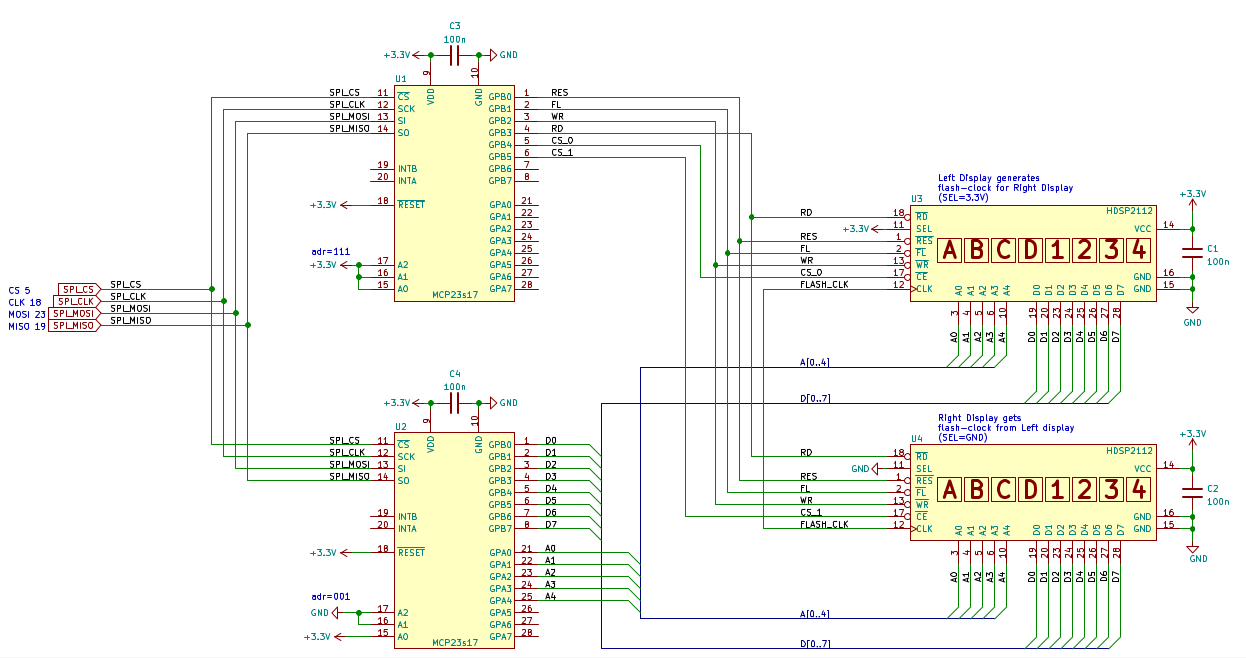
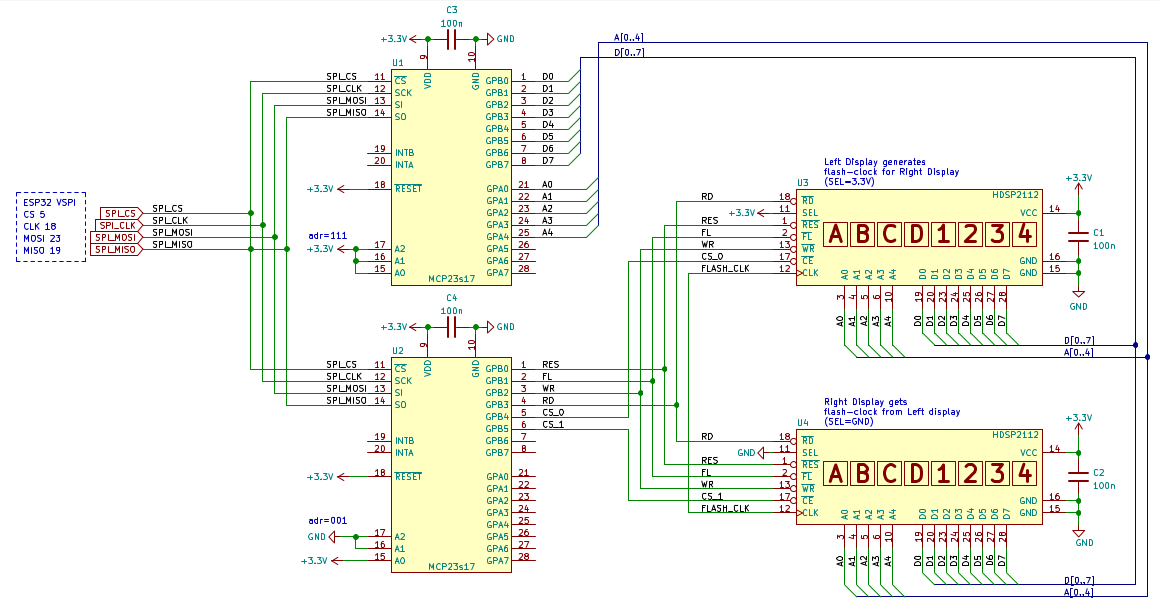
schematic and readme updated

Changed region(s): [[0.0, 0.0309, 0.9931, 0.9902], [0.931, 0.2785, 0.9931, 0.3094], [0.5276, 0.0619, 0.5586, 0.0928]]

diff --git a/src/hdsp2112.h b/src/hdsp2112.h
@@ -15,7 +15,7 @@ constexpr int8_t SPI_miso = 19;        ///< SPI master-in-slave-out
 constexpr uint8_t U1_addr = 0b111;     ///< a2=1 a1=1 a0=1 0b111 --> 0x27
 constexpr uint8_t U2_addr = 0b001;     ///< a2=0 a1=0 a0=1 0b001 --> 0x21
 
-// m_U1.port-B works a control port for the two hdsp2112 displays
+// m_U2.port-B works a control port for the two hdsp2112 displays
 constexpr uint8_t cRES = 0b00000001;   ///< GPB0(1) = reset
 constexpr uint8_t cFL  = 0b00000010;   ///< GPB1(2) = flash-bit
 constexpr uint8_t cWR  = 0b00000100;   ///< GPB2(3) = write enable
@@ -23,13 +23,13 @@ constexpr uint8_t cRD  = 0b00001000;   ///< GPB3(4) = read enable
 constexpr uint8_t cCS0 = 0b00010000;   ///< GPB4(5) = chip select 0
 constexpr uint8_t cCS1 = 0b00100000;   ///< GPB5(6) = chip select 1
 
-// dhsp2112 control-word-register
+// hdsp2112 control-word-register
 constexpr uint8_t cwrClear    = 0b10000000;   ///< 0=normal 1=clear flash and char
 constexpr uint8_t cwrSelftest = 0b01000000;   ///< 0=normal 1=self test
 constexpr uint8_t cwrBlink    = 0b00010000;   ///< 0=off 1=blinking
 constexpr uint8_t cwrFlash    = 0b00001000;   ///< 0=off 1=flashing
 
-// hdsp2112 address-range for internal RAMs: Flash,User-defined,Control and Character-RAM
+// hdsp2112 address for Flash,User-defined,Control and Character-RAM
 constexpr uint8_t adrFLR=0b00011000;   ///< hdsp2112 Flash-RAM address
 constexpr uint8_t adrUDA=0b00100000;   ///< hdsp2112 User-Defined-Address address
 constexpr uint8_t adrUDR=0b00101000;   ///< hdsp2112 User-Defined-RAM address
@@ -42,8 +42,8 @@ enum class mod_e { low=0, high=1 };    ///< logic level of signals
 
 class HDSP2112 : public Print {
   private:
-    Adafruit_MCP23X17 m_U1;   ///< mcs23s17 (U1_addr) GBB[0..4]=[res,fl,wr,rd,cs0,cs1]
-    Adafruit_MCP23X17 m_U2;   ///< mcs23s17 (U2_addr) GPA[0..7]=data[0..7] GBB[0..4]=address[0..4]
+    Adafruit_MCP23X17 m_U1;   ///< mcs23s17 (U1_addr) GPA[0..7]=data[0..7] GBB[0..4]=address[0..4]
+    Adafruit_MCP23X17 m_U2;   ///< mcs23s17 (U2_addr) GBB[0..4]=[res,fl,wr,rd,cs0,cs1]
     int8_t m_spi_cs;          ///< SPI chip-select
     int8_t m_spi_clk;         ///< SPI clock
     int8_t m_spi_mosi;        ///< SPI master-out-clock-in
@@ -148,21 +148,21 @@ class HDSP2112 : public Print {
       } else {
         m_ctrl |= (0==id)? cCS0 : cCS1;
       }
-      m_U1.writeGPIOB(m_ctrl);
+      m_U2.writeGPIOB(m_ctrl);
     }
 
     // sets fl input of given hdsp2112 display to [low,high]
     // @param mod [low,high]
     inline void setFL(mod_e mod) {
       m_ctrl = (mod==mod_e::low) ? (m_ctrl & ~cFL) : (m_ctrl | cFL);
-      m_U1.writeGPIOB(m_ctrl);
+      m_U2.writeGPIOB(m_ctrl);
     }
 
     // control write_enable input of all hdsp2112 displays
     // @param mod [low,high]
     inline void setWR(mod_e mod) {
       m_ctrl = (mod==mod_e::low) ? (m_ctrl & ~cWR) : (m_ctrl | cWR);
-      m_U1.writeGPIOB(m_ctrl);
+      m_U2.writeGPIOB(m_ctrl);
     }
 
     // write data to given hdsp2112 display

diff --git a/src/hdsp2112.cpp b/src/hdsp2112.cpp
@@ -22,10 +22,10 @@ HDSP2112::HDSP2112(int8_t spi_cs, int8_t spi_clk, int8_t spi_mosi, int8_t spi_mi
 
 void HDSP2112::Reset(void) {
   m_ctrl = m_ctrl & ~cRES & ~cCS0 & ~cCS1; 
-  m_U1.writeGPIOB(m_ctrl);    // reset + both cs activated
+  m_U2.writeGPIOB(m_ctrl);    // reset + both cs activated
   delayMicroseconds(10);      // wait pulse width (req. =300ns) 
   m_ctrl |= cRES|cCS0|cCS1;   
-  m_U1.writeGPIOB(m_ctrl);    // reset + both cs deactivated
+  m_U2.writeGPIOB(m_ctrl);    // reset + both cs deactivated
   delay(1);                   // wait 1ms until device is ready after reset (req. =110µs) 
   SetPos(0);                  // set cursor to leftmost position
 }
@@ -45,8 +45,8 @@ void HDSP2112::Begin(void) {
 }
 
 void HDSP2112::WrData(uint8_t id, uint8_t addr, uint8_t data) {
-  m_U2.writeGPIOA(addr);   // set address 
-  m_U2.writeGPIOB(data);   // set data
+  m_U1.writeGPIOA(addr);   // set address 
+  m_U1.writeGPIOB(data);   // set data
   setCS(id,mod_e::low);    // cs=low
   setWR(mod_e::low);       // wr=low 
   delayMicroseconds(1);    // wr active-time req. = 100ns
@@ -63,8 +63,8 @@ void HDSP2112::SetFlashBits(uint16_t fb) {
     uint16_t msk = 0x8000>>ic;   // bit pos mask
     uint8_t data = (uint8_t) ((msk==(msk & fb))? 1u : 0u); 
     setFL(mod_e::low);           // FL=low
-    m_U2.writeGPIOA(addr);       // set address 
-    m_U2.writeGPIOB(data);       // set data
+    m_U1.writeGPIOA(addr);       // set address 
+    m_U1.writeGPIOB(data);       // set data
     setCS(id,mod_e::low);        // cs=low
     setWR(mod_e::low);           // wr=low 
     delayMicroseconds(1);        // wr active-time req. = 100ns

diff --git a/README.md b/README.md
@@ -19,20 +19,23 @@ framework = arduino
 ### 1.1. wiring of the two MCP23s17 
 ---
 It is possible to connect multiple MCP23s17s to a SPI bus in parallel with a single CS signal only. Steps to do:   
-1. The address pins A0..A2 of the MCP23s17 must be wired so that each module has a unique address. 
-```
-pre-assigned Address-Pins in this setup: 
-U1 address = 111 --> spi-control-byte = 0100111x  
-U2 address = 001 --> spi-control-byte = 0100001x  
-```
+#### 1.1.1 define address pins
+The address pins A0..A2 of the MCP23s17 must be wired so that each module has a unique address, e.g. the pre-assigned address-pins in this setup are:
 
-2. Additionally, when initializing the two MCP23s17, the `HAEN` bit (=hardware address enable) must be set within the `IOCON` register (=I/O expander configuration), i.e. call member function `enableAddrPins()`
+| device | A0 | A1 | A2 | SPI-control | Comment                    |
+|:------:|:--:|:--:|:--:|:-----------:|:---------------------------|
+| U1     |  1 |  1 |  1 | 01000111x   | GPA=d[0..7], GPB=a[0..4]   |
+| U2     |  0 |  0 |  1 | 01000001x   | GPB=[res,fl,wr,rd,cs0,cs1] |
+
+
+#### 1.1.2. activate hardware-address-enable 
+Additionally, when initializing the two MCP23s17, the `HAEN` bit (=hardware address enable) must be set within the `IOCON` register (=I/O expander configuration), i.e. call member function `enableAddrPins()`
 ```c
   m_U1.enableAddrPins();  // enable HAEN function
   m_U2.enableAddrPins();  // enable HAEN function
 ```
-
-3. The devices are selected via the **SPI control byte**  according to the pre-assigned address pins A0..A2 
+#### 1.1.3. select devices via SPI-control-byte
+The devices are selected via the **SPI control byte**  according to the pre-assigned address pins A0..A2 
 (see [mcp23s17.pdf](doc/mcp23s17.pdf) , Figure 3-5: **SPI-Control-Byte Format**, page 15) This is done internally, the address is set while calling the `begin_SPI()` member function, that is starting the SPI module. 
 
 ```c  
@@ -48,7 +51,7 @@ The table below shows the wiring of the SPI connections for the EPS32 and the MC
 | 18         | 12          | 12          | SPI_CLK, clock                |
 | 23         | 13          | 13          | SPI_MOSI, master-out-slave-in |
 | 19         | 14          | 14          | SPI_MISO, master-in-slave-out |
-|            | 15 A0 3.3v  | 15 A0 3.3v  | address                       |
+|            | 15 A0 3.3v  | 15 A0 3.3v  | MCP23s17-address              |
 |            | 16 A1 3.3v  | 16 A1 GND   |                               |
 |            | 17 A2 3.3v  | 17 A2 GND   |                               |
 
@@ -65,17 +68,23 @@ Two HDSP-2112 displays are connected in parallel, each is selected via its own c
 For a proper flashing function, the displays were wired so that the left display generates the clock for the right display. ``Left SEL=3.3V`` , ``Right SEL=GND`` See specification [hp_HDSP-2112.pdf](doc/hp_HDSP-2112.pdf) page 9:  *clock-select* (**CLS** pin 11) and *clock-input/output* (**CLK**  pin 12) 
 
 ## 2. SW hints
-1. The [Adafruit-MCP23017-Arduino-Library](https://github.com/adafruit/Adafruit-MCP23017-Arduino-Library) is used to control the MCP23s17 port expander
+### 2.1. MCP23s17 Library
+The [Adafruit-MCP23017-Arduino-Library](https://github.com/adafruit/Adafruit-MCP23017-Arduino-Library) is used to control the MCP23s17 port expander
 
-2. The class `HDSP2112` is derived from the class `Print` , so the member functions like printf() can be used easily  
+### 2.2 parent classes
+The class `HDSP2112` is derived from the class `Print` , so the member functions like printf() can be used easily  
 
-3. some member functions:
-   - `Reset()` reset the displays (hardware)
-   - `Clear()` fill display with blanks
-   -  `SetFlashBits()` and `FlashMode()` to flash  individual characters of the displays
-   - `BlinkMode()` to let the whole display blink
-   - `SetBrightness()` to adjust the brightness
-   - `Selftest()` perform a selftest 
+### 2.3 useful member functions
+some member functions as follows
+ - `Reset()` reset the displays (via hardware signal)
+ - `Clear()` fill display with blanks
+ -  `SetFlashBits()` and `FlashMode()` to flash  individual characters of the displays
+ - `BlinkMode()` to let the whole display blink
+ - `SetBrightness()` to adjust the brightness
+ - `Selftest()` perform a selftest 
+ - `WriteChar()` print a given character
+ - `printf()` standard printf for printing strings
+  
    
 ---
 > [!NOTE]
